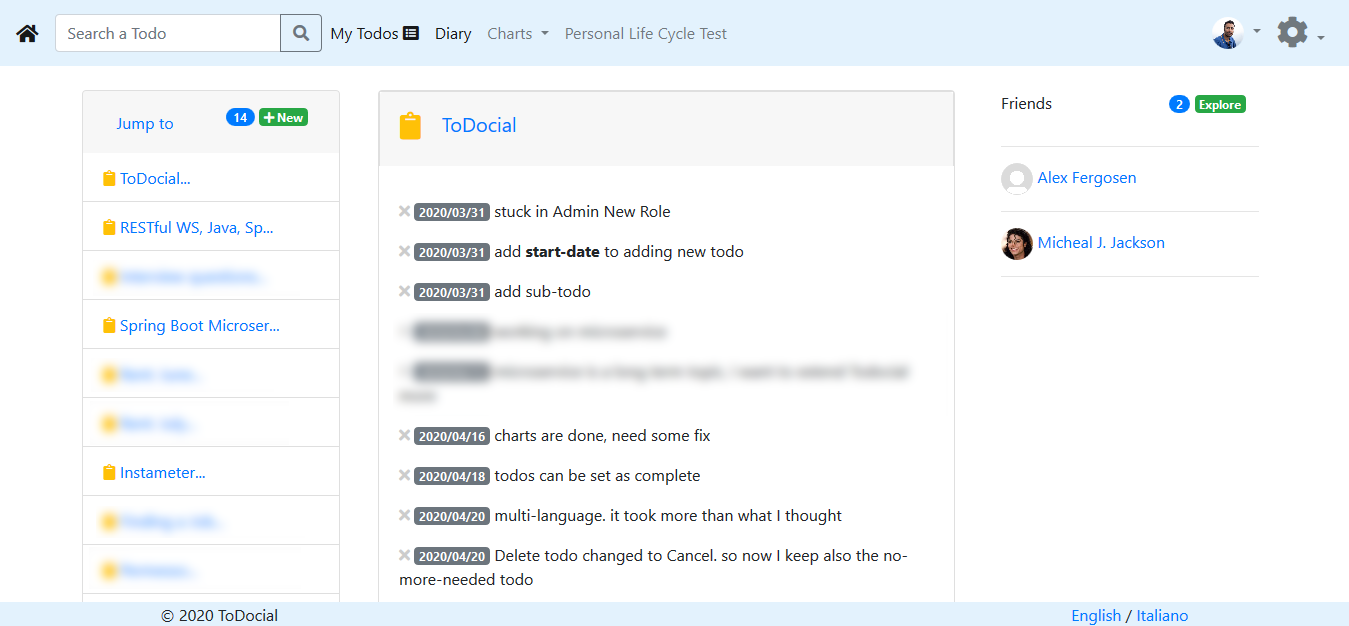
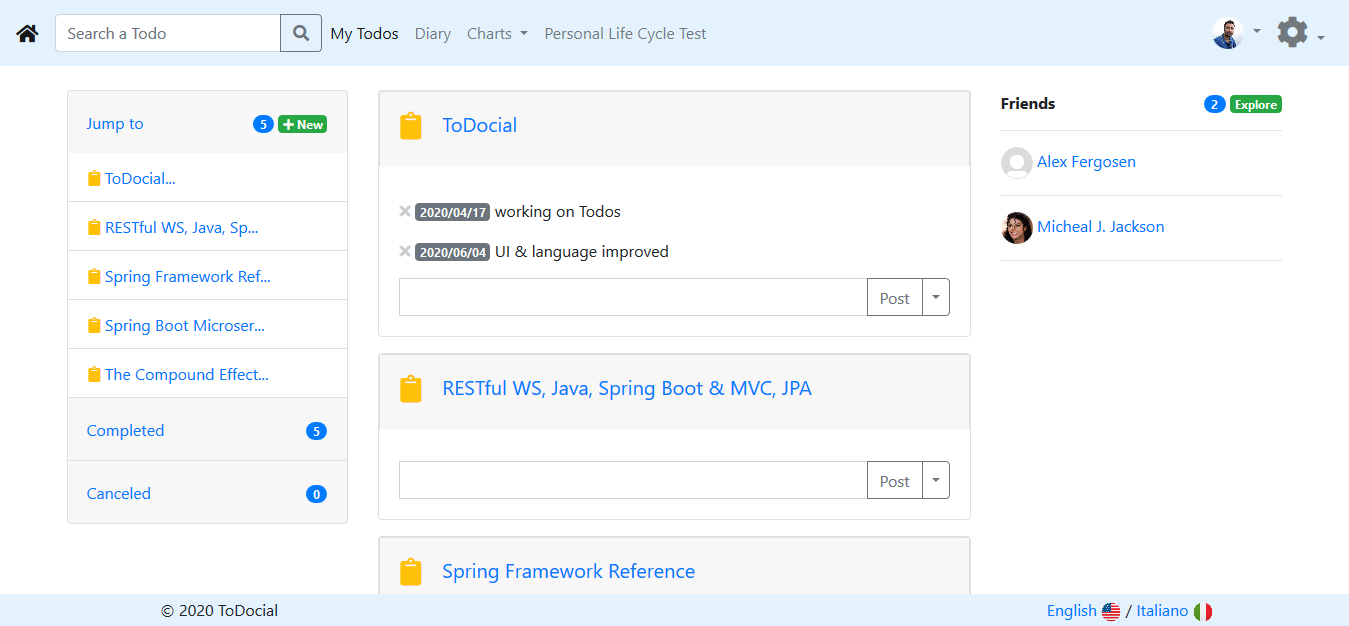
UI & language updated

diff --git a/src/main/webapp/resources/css/style.css b/src/main/webapp/resources/css/style.css
@@ -1,3 +1,24 @@
+a:visited, a:hover, a:active, a:focus {
+   text-decoration: none !important;
+}
+
+
+button{ 
+   text-decoration: none !important;
+}
+  
+  
+
+pre {
+   overflow-x: auto;
+   white-space: pre-wrap;
+   white-space: -moz-pre-wrap;
+   white-space: -pre-wrap;
+   white-space: -o-pre-wrap;
+   word-wrap: break-word;
+}
+
+
 .container {
     max-width: 90%;
 }
